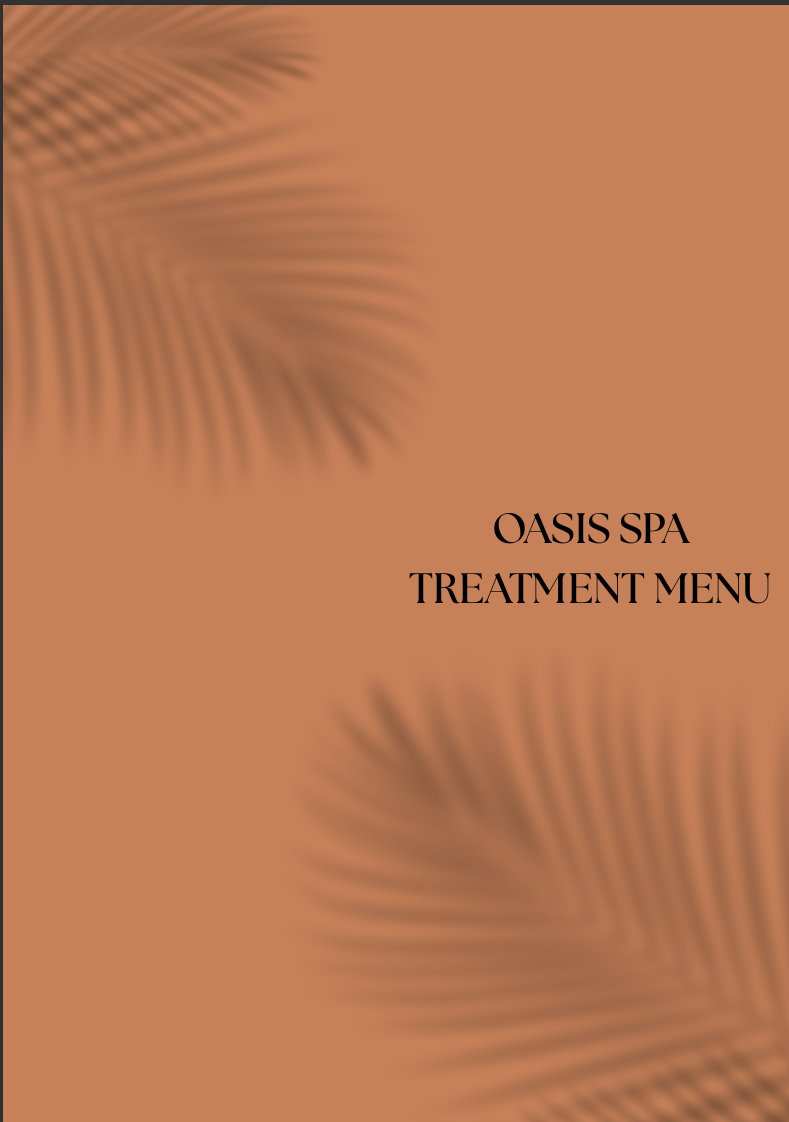
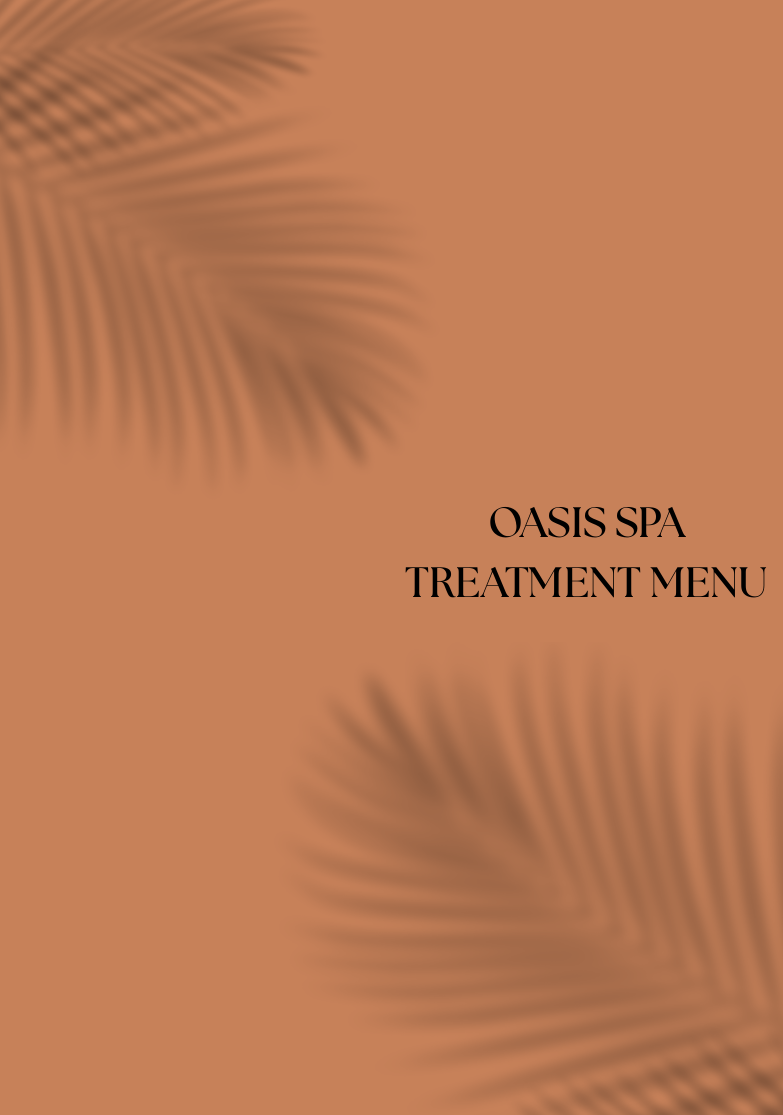
feat: implement spa app scaffold, theme, and about and menu pages

Changed region(s): [[0.0, 0.0, 1.0, 1.0], [0.613, 0.4574, 0.9808, 0.5489], [0.5211, 0.4879, 0.6437, 0.5489]]

diff --git a/oasis/lib/pages/menu_page.dart b/oasis/lib/pages/menu_page.dart
@@ -5,30 +5,35 @@ class MenuPageBody extends StatelessWidget {
 
   @override
   Widget build(BuildContext context) {
-    return ListView(
-      padding: EdgeInsets.zero,
-      children: [
-        Image.asset(
-          'lib/menu/Screenshot 2026-05-18 153743.png',
-          width: double.infinity,
-          fit: BoxFit.fitWidth,
+    return Center(
+      child: ConstrainedBox(
+        constraints: const BoxConstraints(maxWidth: 800),
+        child: ListView(
+          padding: EdgeInsets.zero,
+          children: [
+            Image.asset(
+              'lib/menu/menu0.png',
+              width: double.infinity,
+              fit: BoxFit.fitWidth,
+            ),
+            Image.asset(
+              'lib/menu/menubody.png',
+              width: double.infinity,
+              fit: BoxFit.fitWidth,
+            ),
+            Image.asset(
+              'lib/menu/leg.jpeg',
+              width: double.infinity,
+              fit: BoxFit.fitWidth,
+            ),
+            Image.asset(
+              'lib/menu/aaaa.png',
+              width: double.infinity,
+              fit: BoxFit.fitWidth,
+            ),
+          ],
         ),
-        Image.asset(
-          'lib/menu/menu1.png',
-          width: double.infinity,
-          fit: BoxFit.fitWidth,
-        ),
-        Image.asset(
-          'lib/menu/leg.jpeg',
-          width: double.infinity,
-          fit: BoxFit.fitWidth,
-        ),
-        Image.asset(
-          'lib/menu/aaaa.png',
-          width: double.infinity,
-          fit: BoxFit.fitWidth,
-        ),
-      ],
+      ),
     );
   }
 }

diff --git a/oasis/lib/pages/about_page.dart b/oasis/lib/pages/about_page.dart
@@ -5,24 +5,29 @@ class AboutPageBody extends StatelessWidget {
 
   @override
   Widget build(BuildContext context) {
-    return CustomScrollView(
-      slivers: [
-        SliverToBoxAdapter(
-          child: Image.asset(
-            'lib/menu/policies.png',
-            width: double.infinity,
-            fit: BoxFit.fitWidth,
-          ),
+    return Center(
+      child: ConstrainedBox(
+        constraints: const BoxConstraints(maxWidth: 800),
+        child: CustomScrollView(
+          slivers: [
+            SliverToBoxAdapter(
+              child: Image.asset(
+                'lib/menu/policies.png',
+                width: double.infinity,
+                fit: BoxFit.fitWidth,
+              ),
+            ),
+            SliverFillRemaining(
+              hasScrollBody: false,
+              child: Image.asset(
+                'lib/banner/banner1.png',
+                width: double.infinity,
+                fit: BoxFit.cover, // Fills in the remaining space seamlessly
+              ),
+            ),
+          ],
         ),
-        SliverFillRemaining(
-          hasScrollBody: false,
-          child: Image.asset(
-            'lib/banner/banner1.png',
-            width: double.infinity,
-            fit: BoxFit.cover, // Fills in the remaining space seamlessly
-          ),
-        ),
-      ],
+      ),
     );
   }
 }

diff --git a/oasis/lib/main.dart b/oasis/lib/main.dart
@@ -1,6 +1,7 @@
 import 'package:flutter/material.dart';
 import 'package:google_fonts/google_fonts.dart';
 import 'package:supabase_flutter/supabase_flutter.dart';
+import 'data/spa_theme.dart';
 import 'layout/app_scaffold.dart';
 
 Future<void> main() async {
@@ -25,12 +26,11 @@ class MyApp extends StatelessWidget {
         textTheme: GoogleFonts.notoSerifTextTheme(),
         colorScheme: ColorScheme.fromSeed(
           seedColor: const Color(0xFF8D6E63), // warm brown
-          surface: Colors.white, // Match screenshot background
+          surface: SpaColors.sand, // Match page background
           onSurface: const Color(0xFF3E2723), // dark brown text
           primary: const Color(0xFF8D6E63), // warm brown
         ),
-        scaffoldBackgroundColor: Colors
-            .white, // Setting to white to seamlessly blend with typical PDF screenshots
+        scaffoldBackgroundColor: SpaColors.sand, // Earthy/sand background
         useMaterial3: true,
       ),
       home: const AppScaffold(), // Now uses single scaffolding layout

diff --git a/oasis/lib/data/spa_theme.dart b/oasis/lib/data/spa_theme.dart
@@ -6,7 +6,7 @@ class SpaColors {
   SpaColors._(); // prevent instantiation
 
   /// Background – soft sand / cream
-  static const Color sand = Color(0xFFFAF6F0);
+  static const Color sand = Color(0xFFF4EFE1);
 
   /// Primary accent – rich terracotta brown
   static const Color terracotta = Color(0xFF6B4E31);